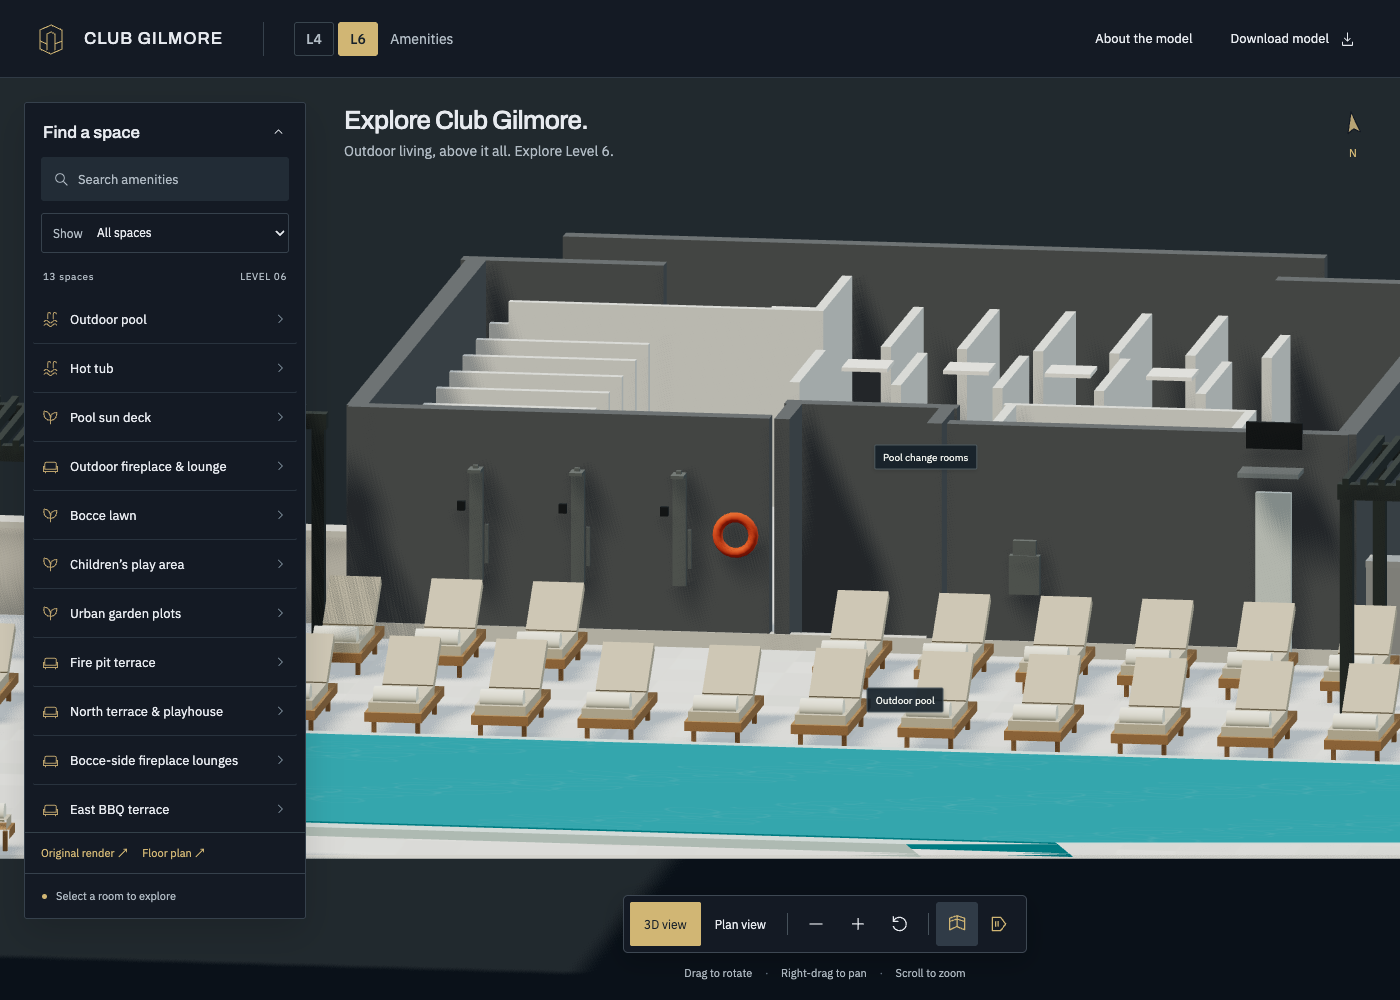
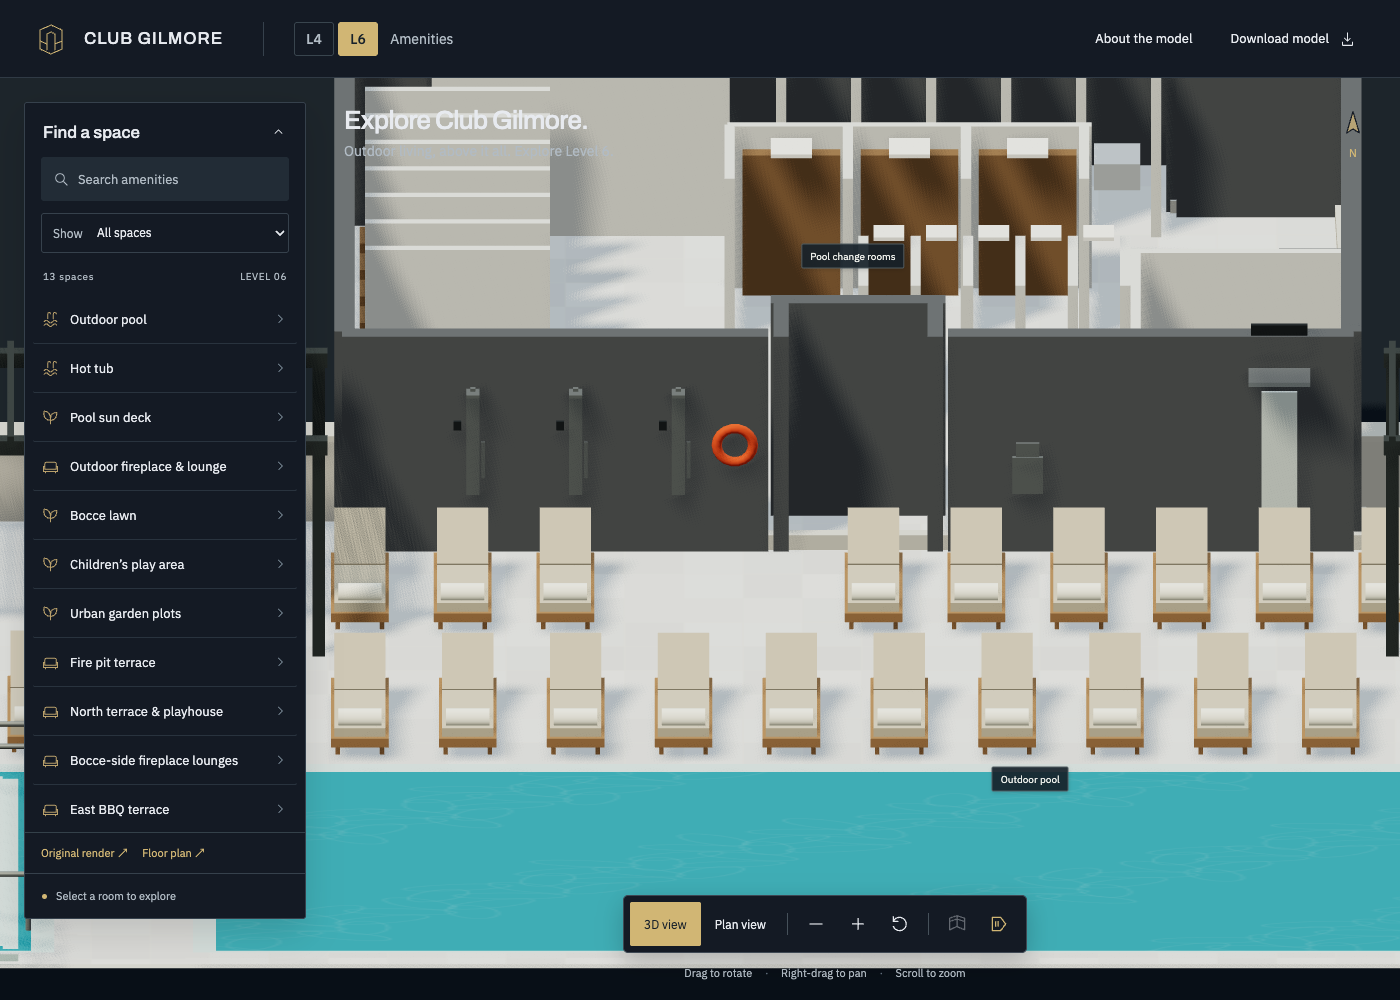
Correct change-room shell outline and interior layout

diff --git a/src/level6.js b/src/level6.js
@@ -334,34 +334,38 @@ export function createLevel6Model(){
  surface([[1170,512],[1240,493],[1470,502],[1504,554],[1298,778],[1170,638]],grass,.08);
  const circle=(x,z,r,material,y=.11)=>{const [a,b]=world([x,z]);mesh(props,new T.CylinderGeometry(r*U,r*U,.04,64),material,a,y,b);};circle(1293,635,89,stone);circle(1293,635,86,rubber,.14);circle(1386,586,63,stone);circle(1386,586,60,tan,.17);
  const [px,pz]=world([1286,626]),[podX,podZ]=world([1386,586]);buildPlayground(props,px,pz,podX,podZ);
- // Change rooms: interior from the user's annotated plan, south elevation from
- // IMG_4029/4034. Zone positions are proportional readings of that plan.
- surface(rect(267,456,198,155),mats.tilefloor,.06);const walls=new T.Group();props.add(walls);
+ // Change rooms. Shell follows the traced block outline rather than a bounding
+ // rectangle; interior zone positions are proportional readings of the user's
+ // reference render. South elevation from IMG_4029/4034.
+ const changeOutline=[[267,456],[283,456],[283,427],[429,427],[429,452],[461,452],[465,611],[267,611]];
+ surface(changeOutline,mats.tilefloor,.06);const walls=new T.Group();props.add(walls);
  const clad=M('#5d6165',.78),partition=M('#d9dad6',.5),cubicle=M('#8a6a48',.7),fixture=M('#f1f0ea',.35);
- // Shell. The photographed south face is dark stone panel with a recessed entry.
- B(268,533,4,155,3,clad,0,walls);B(463,532,4,158,3,clad,0,walls);
- B(356,429,150,4,3,clad,0,walls);B(285,456,40,4,3,clad,0,walls);B(445,453,40,4,3,clad,0,walls);
- B(308,610,83,4,3,clad,0,walls);B(424,610,79,4,3,clad,0,walls);
- for(const x of [352,382])B(x,602,3,20,3,clad,0,walls);
- B(367,594,34,4,3,clad,0,walls);B(367,592,20,1.5,2.35,M('#31383c',.35),0,walls);
- // Change cubicles down the west wall, each with its timber bench.
- for(let i=0;i<6;i++)B(289,466+i*17,34,2,2.3,partition,0,walls);
- for(let i=0;i<5;i++)B(281,474+i*17,18,10,.45,cubicle);
+ // Stepped shell, with the recessed entry opening on the south face.
+ for(const [x,z,w,d] of [[275,456,16,4],[283,441,4,29],[356,427,146,4],[429,439,4,25],
+  [445,452,32,4],[463,531,4,159],[267,533,4,155],[308,611,83,4],[424,611,79,4]])B(x,z,w,d,3,clad,0,walls);
+ for(const x of [352,382])B(x,603,3,20,3,clad,0,walls);
+ B(367,595,34,4,3,clad,0,walls);B(367,593,20,1.5,2.35,M('#31383c',.35),0,walls);
+ // Six changing bays with timber benches down the west wall.
+ for(let i=0;i<7;i++)B(289,470+i*12.7,36,2,2.3,partition,0,walls);
+ for(let i=0;i<6;i++)B(280,476+i*12.7,20,8,.45,cubicle);
  // Accessible shower and washroom in the north-west corner.
- B(337,448,2,38,2.6,partition,0,walls);B(307,467,62,2,2.6,partition,0,walls);
- B(288,440,11,12,.42,fixture);B(327,437,9,9,.05,fixture,2.15);
- // Washroom stalls along the north wall.
- for(let i=0;i<6;i++)B(352+i*15,458,2,42,2.3,partition,0,walls);
- for(let i=0;i<5;i++)B(359+i*15,441,10,11,.42,fixture);
- // Enclosed individual showers, then the open standing showers below them.
- for(let i=0;i<5;i++)B(340+i*20,501,2,34,2.3,partition,0,walls);
- for(let i=0;i<4;i++)B(350+i*20,489,9,9,.05,fixture,2.15);
- for(let i=0;i<4;i++){B(358+i*20,543,2,28,2,partition,0,walls);B(368+i*20,532,8,8,.05,fixture,2.1);}
- // Vanity run of three basins against the east wall.
- B(455,516,16,40,.9,M('#3a3f42',.5));for(let i=0;i<3;i++)B(455,503+i*13,11,9,.06,fixture,.91);
+ B(341,445,2,34,2.6,partition,0,walls);B(313,462,58,2,2.6,partition,0,walls);
+ B(296,440,12,12,.42,fixture);B(331,436,9,9,.05,fixture,2.15);
+ // Five washroom stalls hung off the north wall.
+ for(let i=0;i<6;i++)B(352+i*14.6,447,2,33,2.3,partition,0,walls);
+ for(let i=0;i<5;i++)B(359+i*14.6,436,9,10,.42,fixture);
+ // Three wide enclosed shower booths, each with a timber back panel.
+ B(377,487,71,2,2.3,partition,0,walls);
+ for(let i=0;i<4;i++)B(342+i*23,500,2,26,2.3,partition,0,walls);
+ for(let i=0;i<3;i++){B(354+i*23,490,19,3,2,cubicle);B(354+i*23,494,8,8,.05,fixture,2.15);}
+ // Five open standing showers below them.
+ for(let i=0;i<6;i++)B(368+i*10.2,542,2,24,2,partition,0,walls);
+ for(let i=0;i<5;i++)B(373+i*10.2,533,6,6,.05,fixture,2.1);
+ // Three-basin vanity hard against the east wall.
+ B(455,518,12,40,.9,M('#3a3f42',.5));for(let i=0;i<3;i++)B(455,505+i*13,8,9,.06,fixture,.91);
  // Steam room in the south-east corner.
- for(const x of [389,436])B(x,578,2,42,2.6,partition,0,walls);B(412,558,49,2,2.6,partition,0,walls);
- B(422,572,22,10,.45,cubicle);
+ B(421,581,2,46,2.6,partition,0,walls);B(441,558,42,2,2.6,partition,0,walls);
+ B(441,570,34,10,.45,cubicle);
  // IMG_4029/4034 south elevation: three stainless outdoor shower columns west of
  // the entry, life ring, bottle filler, and the canopied storage door east of it.
  for(const x of [292,312,332]){

diff --git a/MODEL-SOURCES.md b/MODEL-SOURCES.md
@@ -180,3 +180,21 @@ is kept out of `wallGroups`, so the shell and its south-elevation fixtures alway
 full 3 m. It is Level 6's only enclosure, so the wall raise/lower control now has nothing to act
 on there and is disabled while Level 6 is active.
 
+### Change-room layout corrected against the reference render
+
+The user compared the model against the source render and the previous fit-out was wrong on
+several counts. Corrected:
+
+- The shell now follows the traced block outline `changeOutline` instead of a bounding rectangle,
+  so the stepped north-west and north-east returns read as built.
+- Six changing bays with timber benches down the west wall, not five.
+- Five washroom stalls hung off the north wall, in the eastern half rather than centred.
+- Three **wide** enclosed shower booths, each with a timber back panel, replacing four narrow
+  stalls — the reference clearly shows three broad booths with timber backs.
+- Five open standing showers below them, not four.
+- The three-basin vanity sits hard against the east wall.
+- The steam room moved into the south-east corner behind the vanity run.
+
+Zone extents were read proportionally off the reference render, which carries no dimensions, so
+counts and adjacencies are matched but sizes remain interpretations.
+

diff --git a/QA.md b/QA.md
@@ -107,3 +107,10 @@ Change room at full height: production build passes and `scripts/verify-level6.c
 block renders at full height in the default view and that the wall toggle reports disabled on
 Level 6. Evidence: `evidence/level6-change-full-height.png`.
 
+Change-room layout correction: production build passes and `scripts/verify-level6.cjs` returns
+**PASS** at 18,702,304 export bytes with zero page JavaScript errors. Inspected a fresh Chrome
+overhead of the whole block against the user's reference render — stepped shell outline, six
+changing bays, five washroom stalls, three wide timber-backed shower booths, five standing
+showers, east vanity and south-east steam room all read in the reference's arrangement. Evidence
+refreshed in `evidence/level6-change-interior.png` and `evidence/level6-change-elevation.png`.
+
